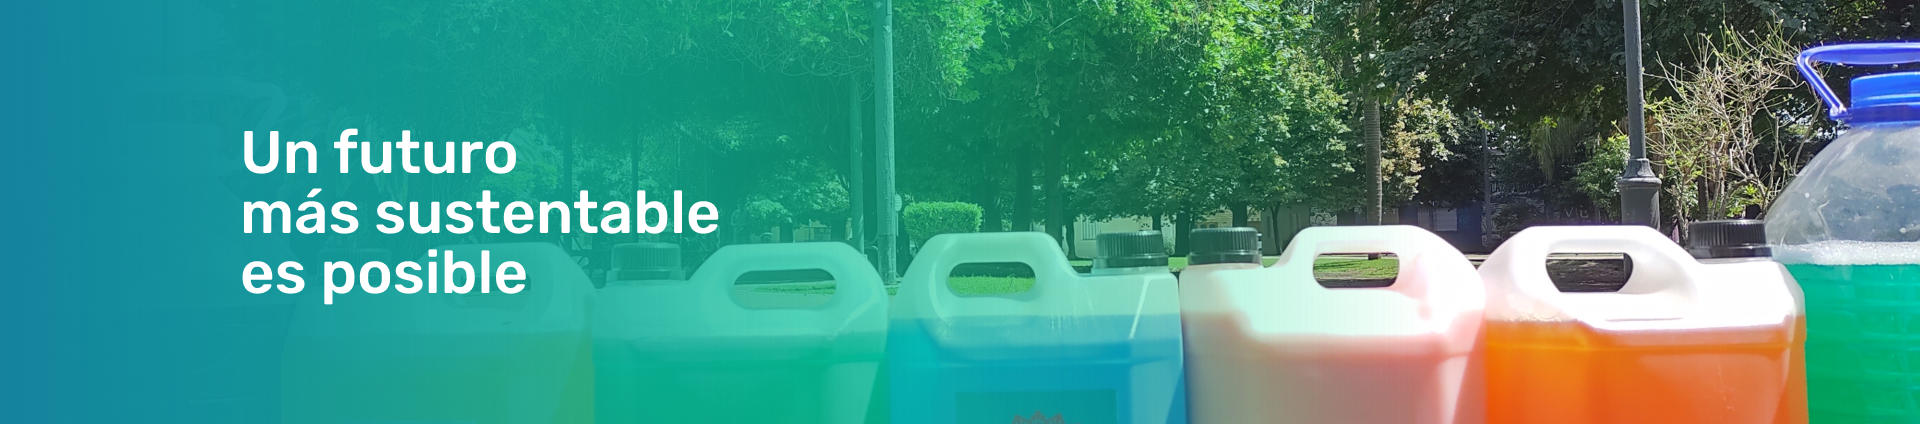
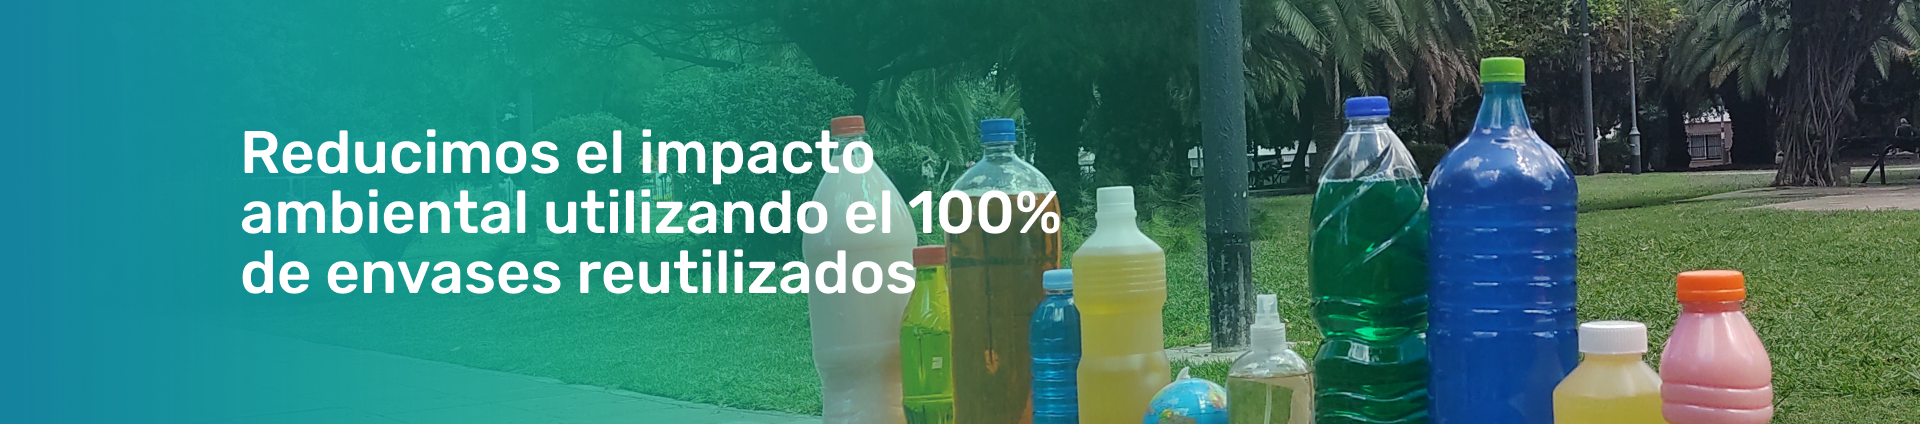
Arreglos carousel y section

diff --git a/index.html b/index.html
@@ -149,7 +149,7 @@
           <img src="img/carousel-desktop-2.png" class="d-block w-100" alt="...">
         </div>
         <div class="carousel-item">
-          <img src="img/carousel-desktop-1.png" class="d-block w-100" alt="...">
+          <img src="img/carousel-desktop-3.png" class="d-block w-100" alt="...">
         </div>
       </div>
     </div>
@@ -165,7 +165,7 @@
           <img src="img/carousel-mobile-2.png" class="d-block w-100" alt="...">
         </div>
         <div class="carousel-item">
-          <img src="img/carousel-mobile-1.png" class="d-block w-100" alt="...">
+          <img src="img/carousel-mobile-3.png" class="d-block w-100" alt="...">
         </div>
       </div>
     </div>
@@ -239,7 +239,7 @@
   <div class="modal fade" id="exampleModal" tabindex="-1" aria-labelledby="exampleModalLabel" aria-hidden="true">
     <div class="modal-dialog modal-lg">
       <div class="modal-content">
-        <img class="w-100" src="envios.png" alt="mapa de Buenos Aires con areas de envios y sus costos.">
+        <img class="w-100" src="img/mapa-envios.png" alt="mapa de Buenos Aires con areas de envios y sus costos.">
       </div>
     </div>
   </div>

diff --git a/css/style.css b/css/style.css
@@ -509,6 +509,13 @@ nav {
 @media (max-width: 576px) {
   p {
     font-size: 15px; }
+  .fondo-img {
+    background-image: url("../img/middle-mobile.png") !important;
+    width: 100%;
+    height: 200px;
+    background-size: cover;
+    margin-top: 0;
+    margin-bottom: 80px; }
   /* Nav Mobile */
   #navMobile__menuContenedor {
     top: 37px; }

diff --git a/scss/style.scss b/scss/style.scss
@@ -591,6 +591,14 @@ nav{
   p {
     font-size: 15px; 
   }
+  .fondo-img{
+    background-image: url("../img/middle-mobile.png") !important;
+    width: 100%;
+    height: 200px;
+    background-size: cover;
+    margin-top: 0;
+    margin-bottom: 80px;
+  }
   /* Nav Mobile */
   #navMobile__menuContenedor {
     top: 37px;   
